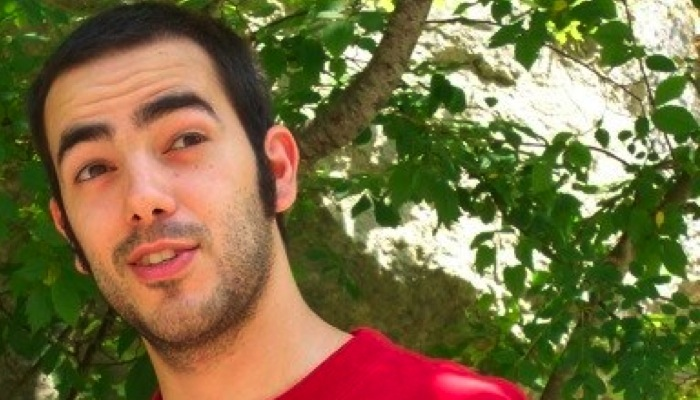
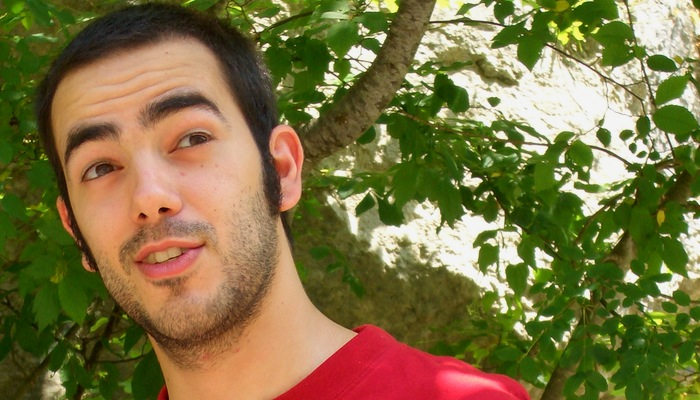
updated main image

diff --git a/Home_files/Home.css b/Home_files/Home.css
@@ -59,7 +59,7 @@
     margin-bottom: 0px;
     margin-left: 0px;
     margin-right: 0px;
-    margin-top: 0px;
+    margin-top: 18px;
     opacity: 1.00;
     padding-bottom: 0px;
     padding-top: 0px;
